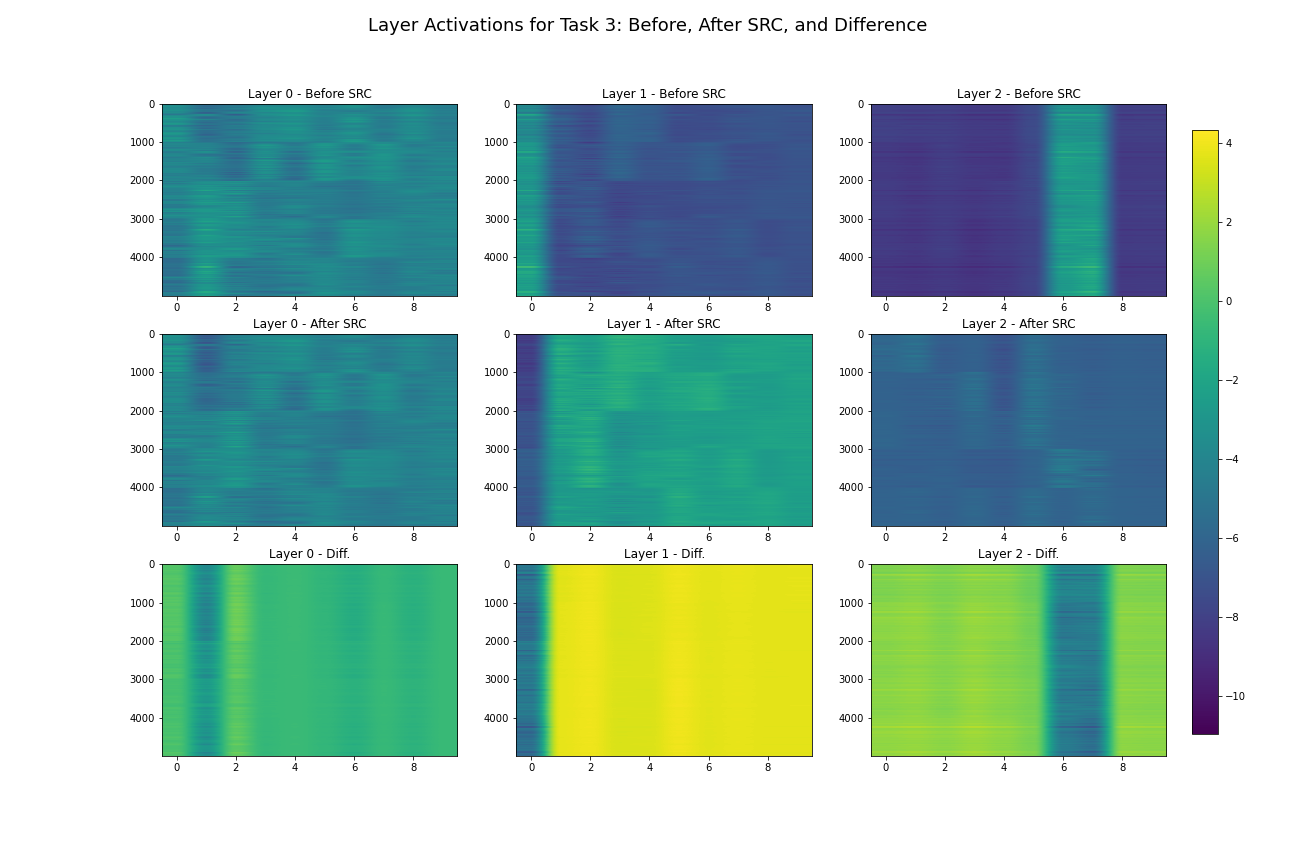
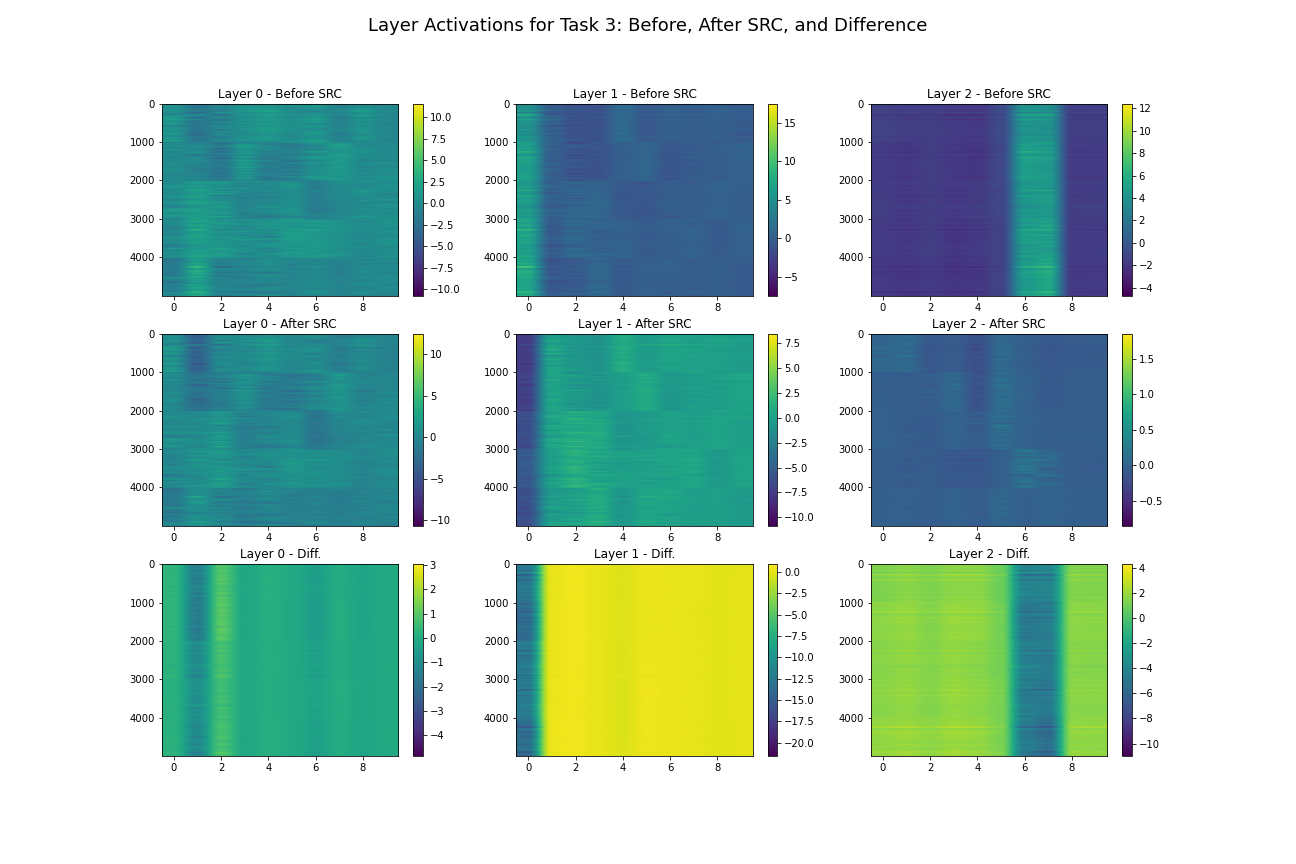
correct colorbars

diff --git a/mnist_exp.py b/mnist_exp.py
@@ -255,6 +255,7 @@ def run_sleep_exp(acc_df: list, sleep_opts_update={}):
             layer_activations_after = [act.cpu() for act in activations_after.values()]
 
         # [Visual] Fit PCA to the activations and reduce the dimensionality
+        reduced_activations = []
         reduced_activations_before = []
         reduced_activations_after = []
         reduced_activations_diff = []
@@ -265,26 +266,28 @@ def run_sleep_exp(acc_df: list, sleep_opts_update={}):
 
             pca = PCA(n_components=10)
             layer_activations = np.concatenate((layer_activations_before[i], layer_activations_after[i]))
-            reduced_activations = pca.fit_transform(layer_activations)
+            reduced_activations.append(pca.fit_transform(layer_activations))
 
-            reduced_activations_before.append(reduced_activations[:len(layer_activations_before[i])])
-            reduced_activations_after.append(reduced_activations[len(layer_activations_before[i]):])
+            reduced_activations_before.append(reduced_activations[i][:len(layer_activations_before[i])])
+            reduced_activations_after.append(reduced_activations[i][len(layer_activations_before[i]):])
             reduced_activations_diff.append(reduced_activations_after[i] - reduced_activations_before[i])
 
         # [Visual] Plot the reduced activations as images for each layer before and after SRC
         fig, axs = plt.subplots(3, len(src_model.layers), figsize=(len(src_model.layers) * 6, 12))
         fig.suptitle(f'Layer Activations for Task {task_id}: Before, After SRC, and Difference', fontsize=18)
-        cbar_ax = fig.add_axes([0.92, 0.15, 0.02, 0.7])
 
         for i in range(len(src_model.layers)):
             im1 = axs[0, i].imshow(reduced_activations_before[i], aspect='auto')
             axs[0, i].set_title(f'Layer {i} - Before SRC', fontsize=12)
-            im2 = axs[1, i].imshow(reduced_activations_after[i], aspect='auto')
-            axs[1, i].set_title(f'Layer {i} - After SRC', fontsize=12)
-            im3 = axs[2, i].imshow(reduced_activations_diff[i], aspect='auto')
-            axs[2, i].set_title(f'Layer {i} - Diff.', fontsize=12)
+            fig.colorbar(im1, ax=axs[0, i])
 
-        fig.colorbar(im3, cax=cbar_ax)
+            im2 = axs[1, i].imshow(reduced_activations_after[i], aspect='auto') #, vmin=before_after_min, vmax=before_after_max)
+            axs[1, i].set_title(f'Layer {i} - After SRC', fontsize=12)
+            fig.colorbar(im2, ax=axs[1, i])
+
+            im3 = axs[2, i].imshow(reduced_activations_diff[i], aspect='auto') #, vmin=-20, vmax=5)
+            axs[2, i].set_title(f'Layer {i} - Diff.', fontsize=12)
+            fig.colorbar(im3, ax=axs[2, i])
 
         fig.savefig(f'./png/layer_activations_task_{task_id}_before_after_src.png')
 
